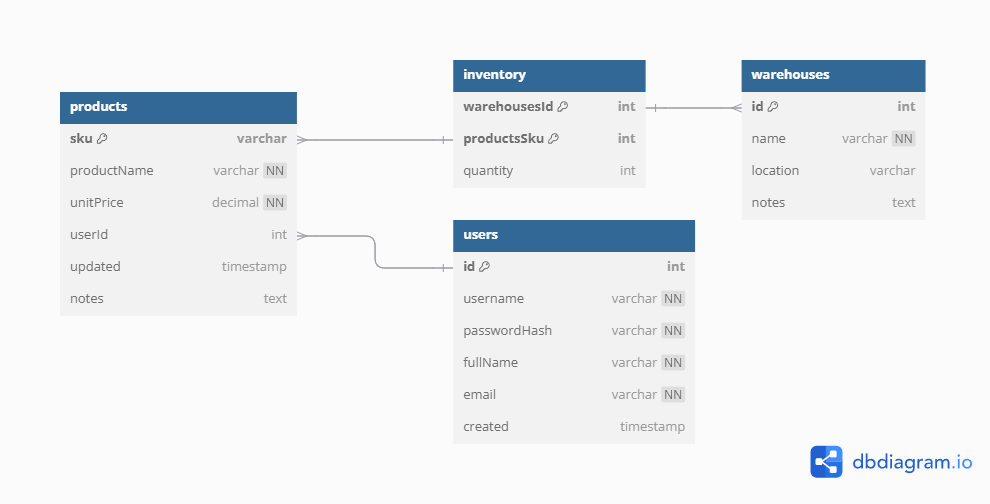
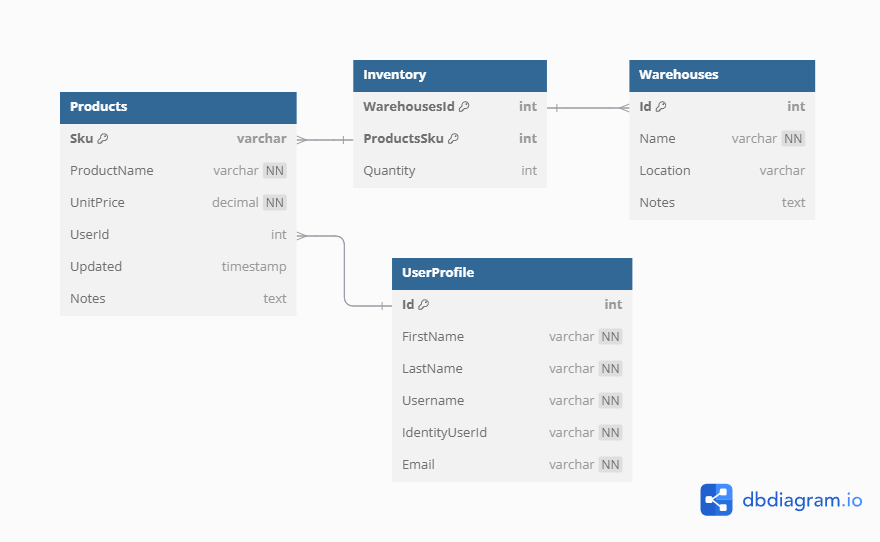
Tie off point commit.

diff --git a/Data/InventoryManagementDbContext.cs b/Data/InventoryManagementDbContext.cs
@@ -7,7 +7,10 @@ namespace InventoryManagement.Data;
 public class InventoryManagementDbContext : IdentityDbContext<IdentityUser>
 {
     private readonly IConfiguration _configuration;
+    public DbSet<Product> Products { get; set; }
     public DbSet<UserProfile> UserProfiles { get; set; }
+    public DbSet<Warehouse> Warehouses { get; set; }
+    public DbSet<Inventory> Inventories { get; set; }
 
     public InventoryManagementDbContext(DbContextOptions<InventoryManagementDbContext> context, IConfiguration config) : base(context)
     {
@@ -44,7 +47,7 @@ public class InventoryManagementDbContext : IdentityDbContext<IdentityUser>
             IdentityUserId = "dbc40bc6-0829-4ac5-a3ed-180f5e916a5f",
             FirstName = "Admina",
             LastName = "Strator",
-            Address = "101 Main Street",
+
         });
 
 

diff --git a/obj/Debug/net8.0/InventoryManagement.AssemblyInfo.cs b/obj/Debug/net8.0/InventoryManagement.AssemblyInfo.cs
@@ -14,7 +14,7 @@ using System.Reflection;
 [assembly: System.Reflection.AssemblyCompanyAttribute("InventoryManagement")]
 [assembly: System.Reflection.AssemblyConfigurationAttribute("Debug")]
 [assembly: System.Reflection.AssemblyFileVersionAttribute("1.0.0.0")]
-[assembly: System.Reflection.AssemblyInformationalVersionAttribute("1.0.0+4a2fb84e9a24b726be66d3d9bd8ebeee31c25f3f")]
+[assembly: System.Reflection.AssemblyInformationalVersionAttribute("1.0.0+1ee3e73709e3fc8eba853d661c053275660e57ab")]
 [assembly: System.Reflection.AssemblyProductAttribute("InventoryManagement")]
 [assembly: System.Reflection.AssemblyTitleAttribute("InventoryManagement")]
 [assembly: System.Reflection.AssemblyVersionAttribute("1.0.0.0")]

diff --git a/Models/UserProfile.cs b/Models/UserProfile.cs
@@ -1,3 +1,5 @@
+using System;
+using System.Collections.Generic;
 using Microsoft.AspNetCore.Identity;
 
 namespace InventoryManagement.Models;
@@ -7,11 +9,13 @@ public class UserProfile
     public int Id { get; set; }
     public string FirstName { get; set; }
     public string LastName { get; set; }
-    public string Address { get; set; }
+    public string Username { get; set; }
+    public string Email { get; set; }
 
     public string IdentityUserId { get; set; }
 
     public IdentityUser IdentityUser { get; set; }
+    public ICollection<Product> Products { get; set; }
 
 
 }

diff --git a/Models/Products.cs b/Models/Products.cs
@@ -1,0 +1,19 @@
+using System;
+using System.Collections.Generic;
+
+namespace InventoryManagement.Models;
+{
+    public class Product
+{
+    public string Sku { get; set; }
+    public string ProductName { get; set; }
+    public decimal UnitPrice { get; set; }
+    public int UserId { get; set; }
+    public DateTime Updated { get; set; }
+    public string Notes { get; set; }
+
+
+    public UserProfile UserProfile { get; set; }
+    public ICollection<Inventory> Inventories { get; set; }
+}
+}

diff --git a/Models/DTOs/UserProfileDTO.cs b/Models/DTOs/UserProfileDTO.cs
@@ -8,14 +8,12 @@ public class UserProfileDTO
     public int Id { get; set; }
     public string FirstName { get; set; }
     public string LastName { get; set; }
-    public string Address { get; set; }
+    public string Username { get; set; }
     public string Email { get; set; }
-
-    public string UserName { get; set; }
-    public List<string> Roles { get; set; }
 
     public string IdentityUserId { get; set; }
 
     public IdentityUser IdentityUser { get; set; }
+
 
 }

diff --git a/Models/Inventory.cs b/Models/Inventory.cs
@@ -1,0 +1,14 @@
+using System;
+using System.Collections.Generic;
+
+namespace InventoryManagement.Models;
+public class Inventory
+{
+    public int WarehousesId { get; set; }
+    public string ProductsSku { get; set; }
+    public int Quantity { get; set; }
+
+
+    public Warehouse Warehouse { get; set; }
+    public Product Product { get; set; }
+}

diff --git a/Models/Warehouses.cs b/Models/Warehouses.cs
@@ -1,0 +1,14 @@
+using System;
+using System.Collections.Generic;
+
+namespace InventoryManagement.Models;
+public class Warehouse
+{
+    public int Id { get; set; }
+    public string Name { get; set; }
+    public string Location { get; set; }
+    public string Notes { get; set; }
+
+
+    public ICollection<Inventory> Inventories { get; set; }
+}

diff --git a/Models/DTOs/RegistrationDTO.cs b/Models/DTOs/RegistrationDTO.cs
@@ -1,4 +1,4 @@
-namespace BiancasBikes.Models.DTOs;
+namespace InventoryManagement.Models.DTOs;
 
 public class RegistrationDTO
 {
@@ -7,6 +7,6 @@ public class RegistrationDTO
     public string UserName { get; set; }
     public string FirstName { get; set; }
     public string LastName { get; set; }
-    public string Address { get; set; }
+
 
 }

diff --git a/Models/DTOs/ProductsDTO.cs b/Models/DTOs/ProductsDTO.cs
@@ -1,0 +1,10 @@
+namespace InventoryManagement.Models.DTOs;
+public class ProductDto
+{
+    public string Sku { get; set; }
+    public string ProductName { get; set; }
+    public decimal UnitPrice { get; set; }
+    public int UserId { get; set; }
+    public DateTime Updated { get; set; }
+    public string Notes { get; set; }
+}

diff --git a/Models/DTOs/WarehousesDTO.cs b/Models/DTOs/WarehousesDTO.cs
@@ -1,0 +1,9 @@
+namespace InventoryManagement.Models.DTOs;
+
+public class WarehouseDto
+{
+    public int Id { get; set; }
+    public string Name { get; set; }
+    public string Location { get; set; }
+    public string Notes { get; set; }
+}

diff --git a/Models/DTOs/InventoryDTO.cs b/Models/DTOs/InventoryDTO.cs
@@ -1,0 +1,8 @@
+namespace InventoryManagement.Models.DTOs;
+
+public class InventoryDto
+{
+    public int WarehousesId { get; set; }
+    public string ProductsSku { get; set; }
+    public int Quantity { get; set; }
+}
